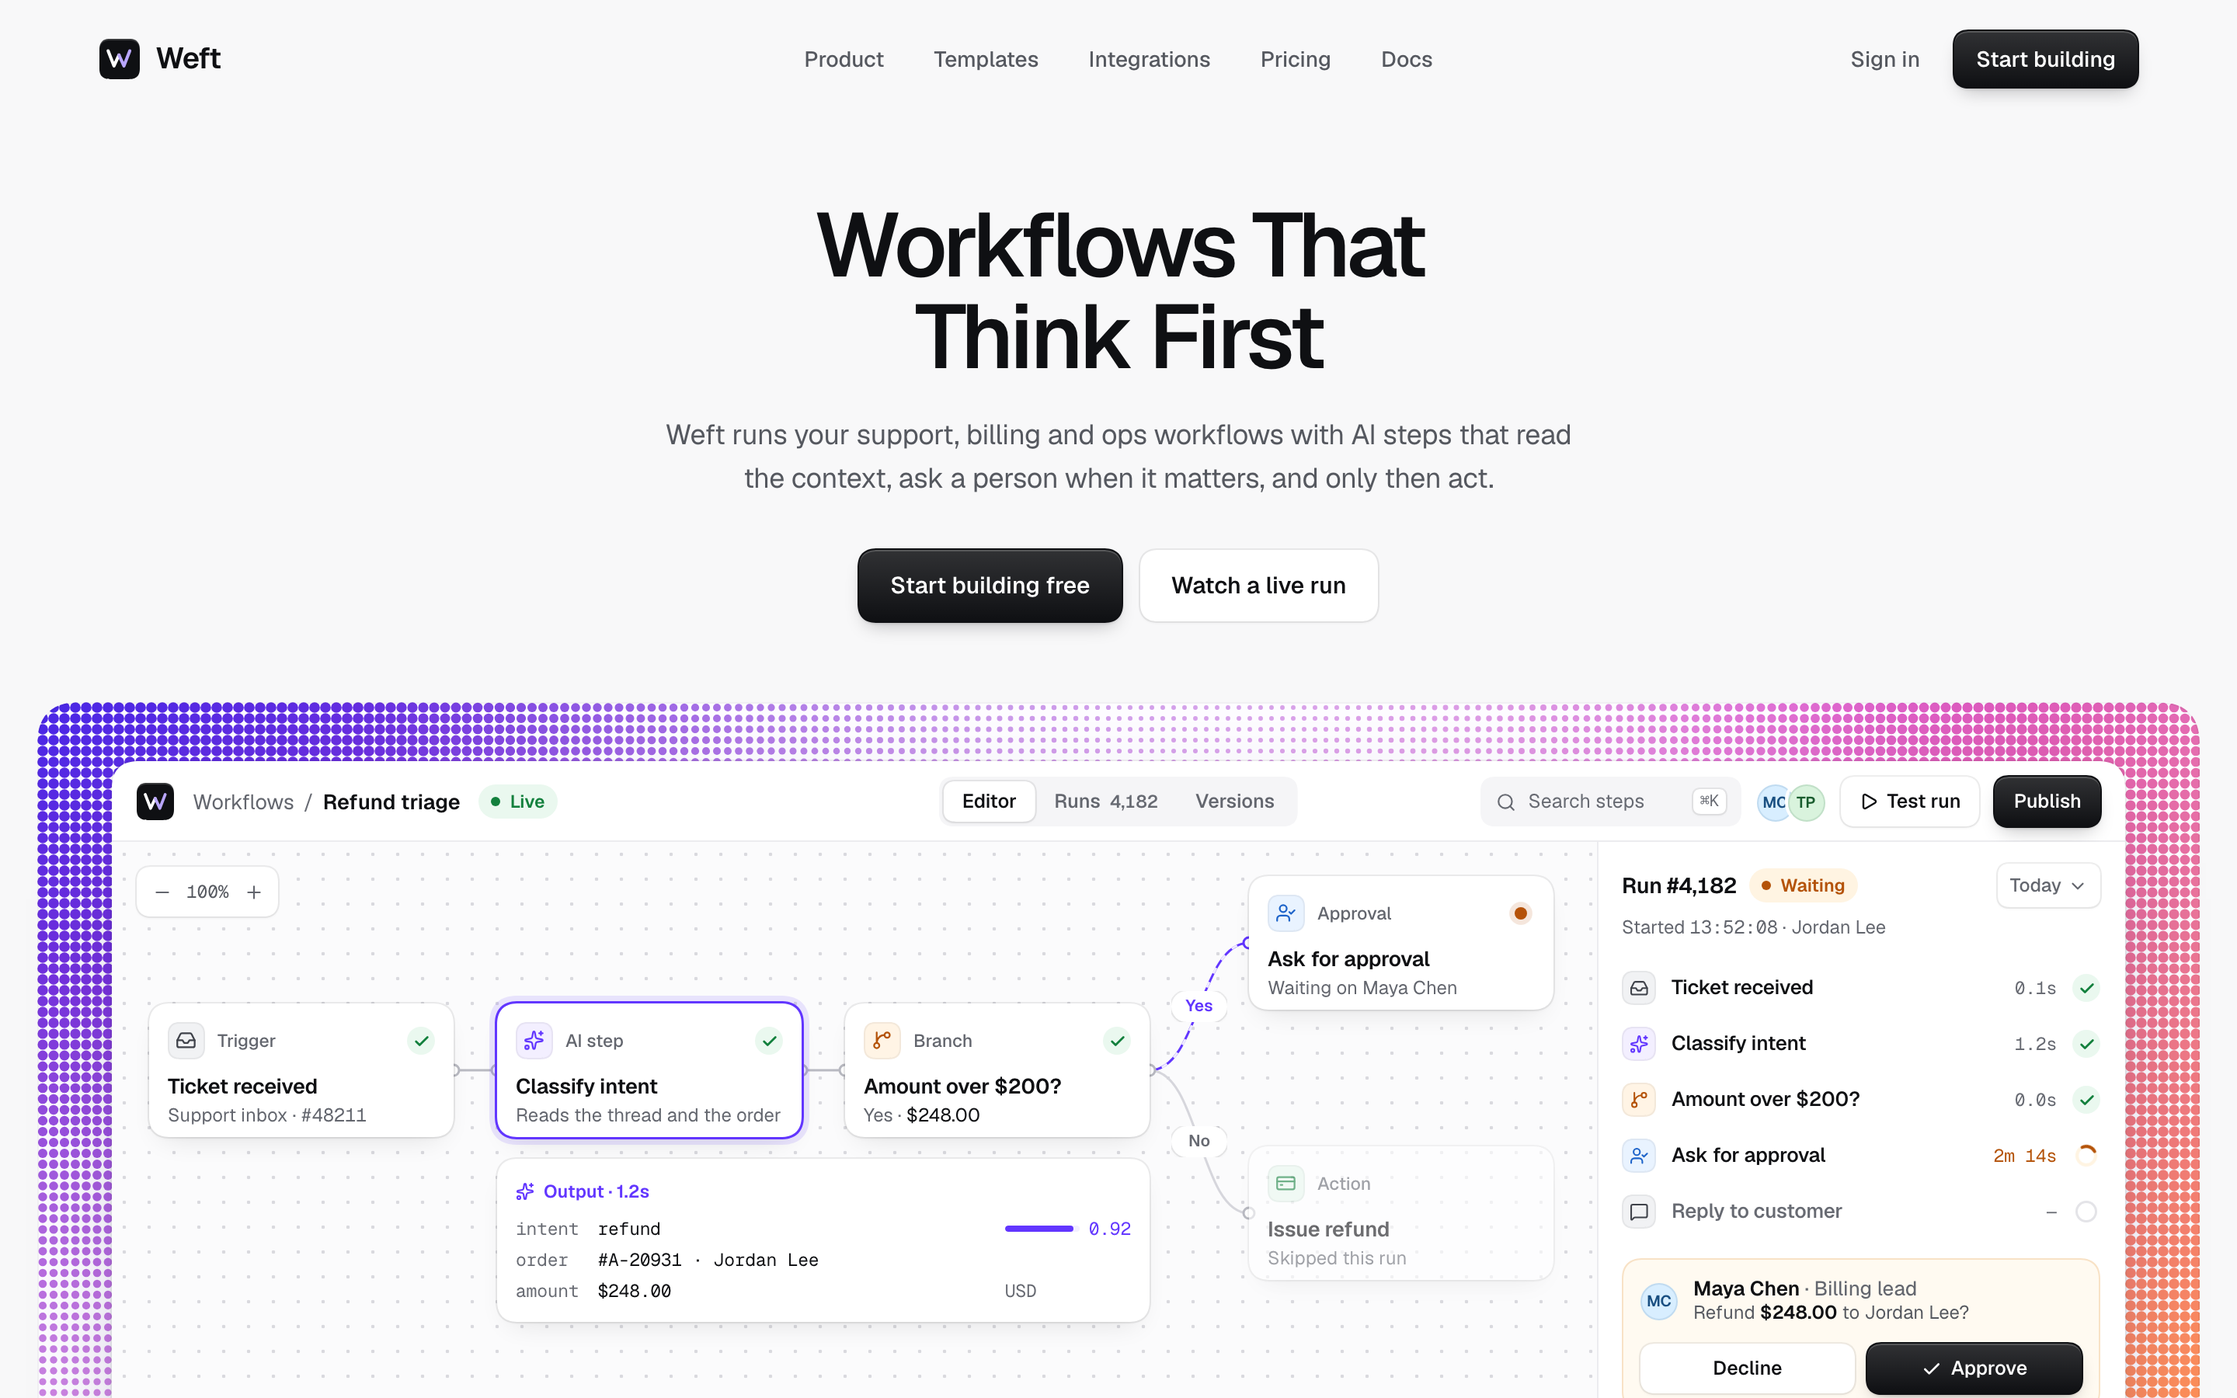
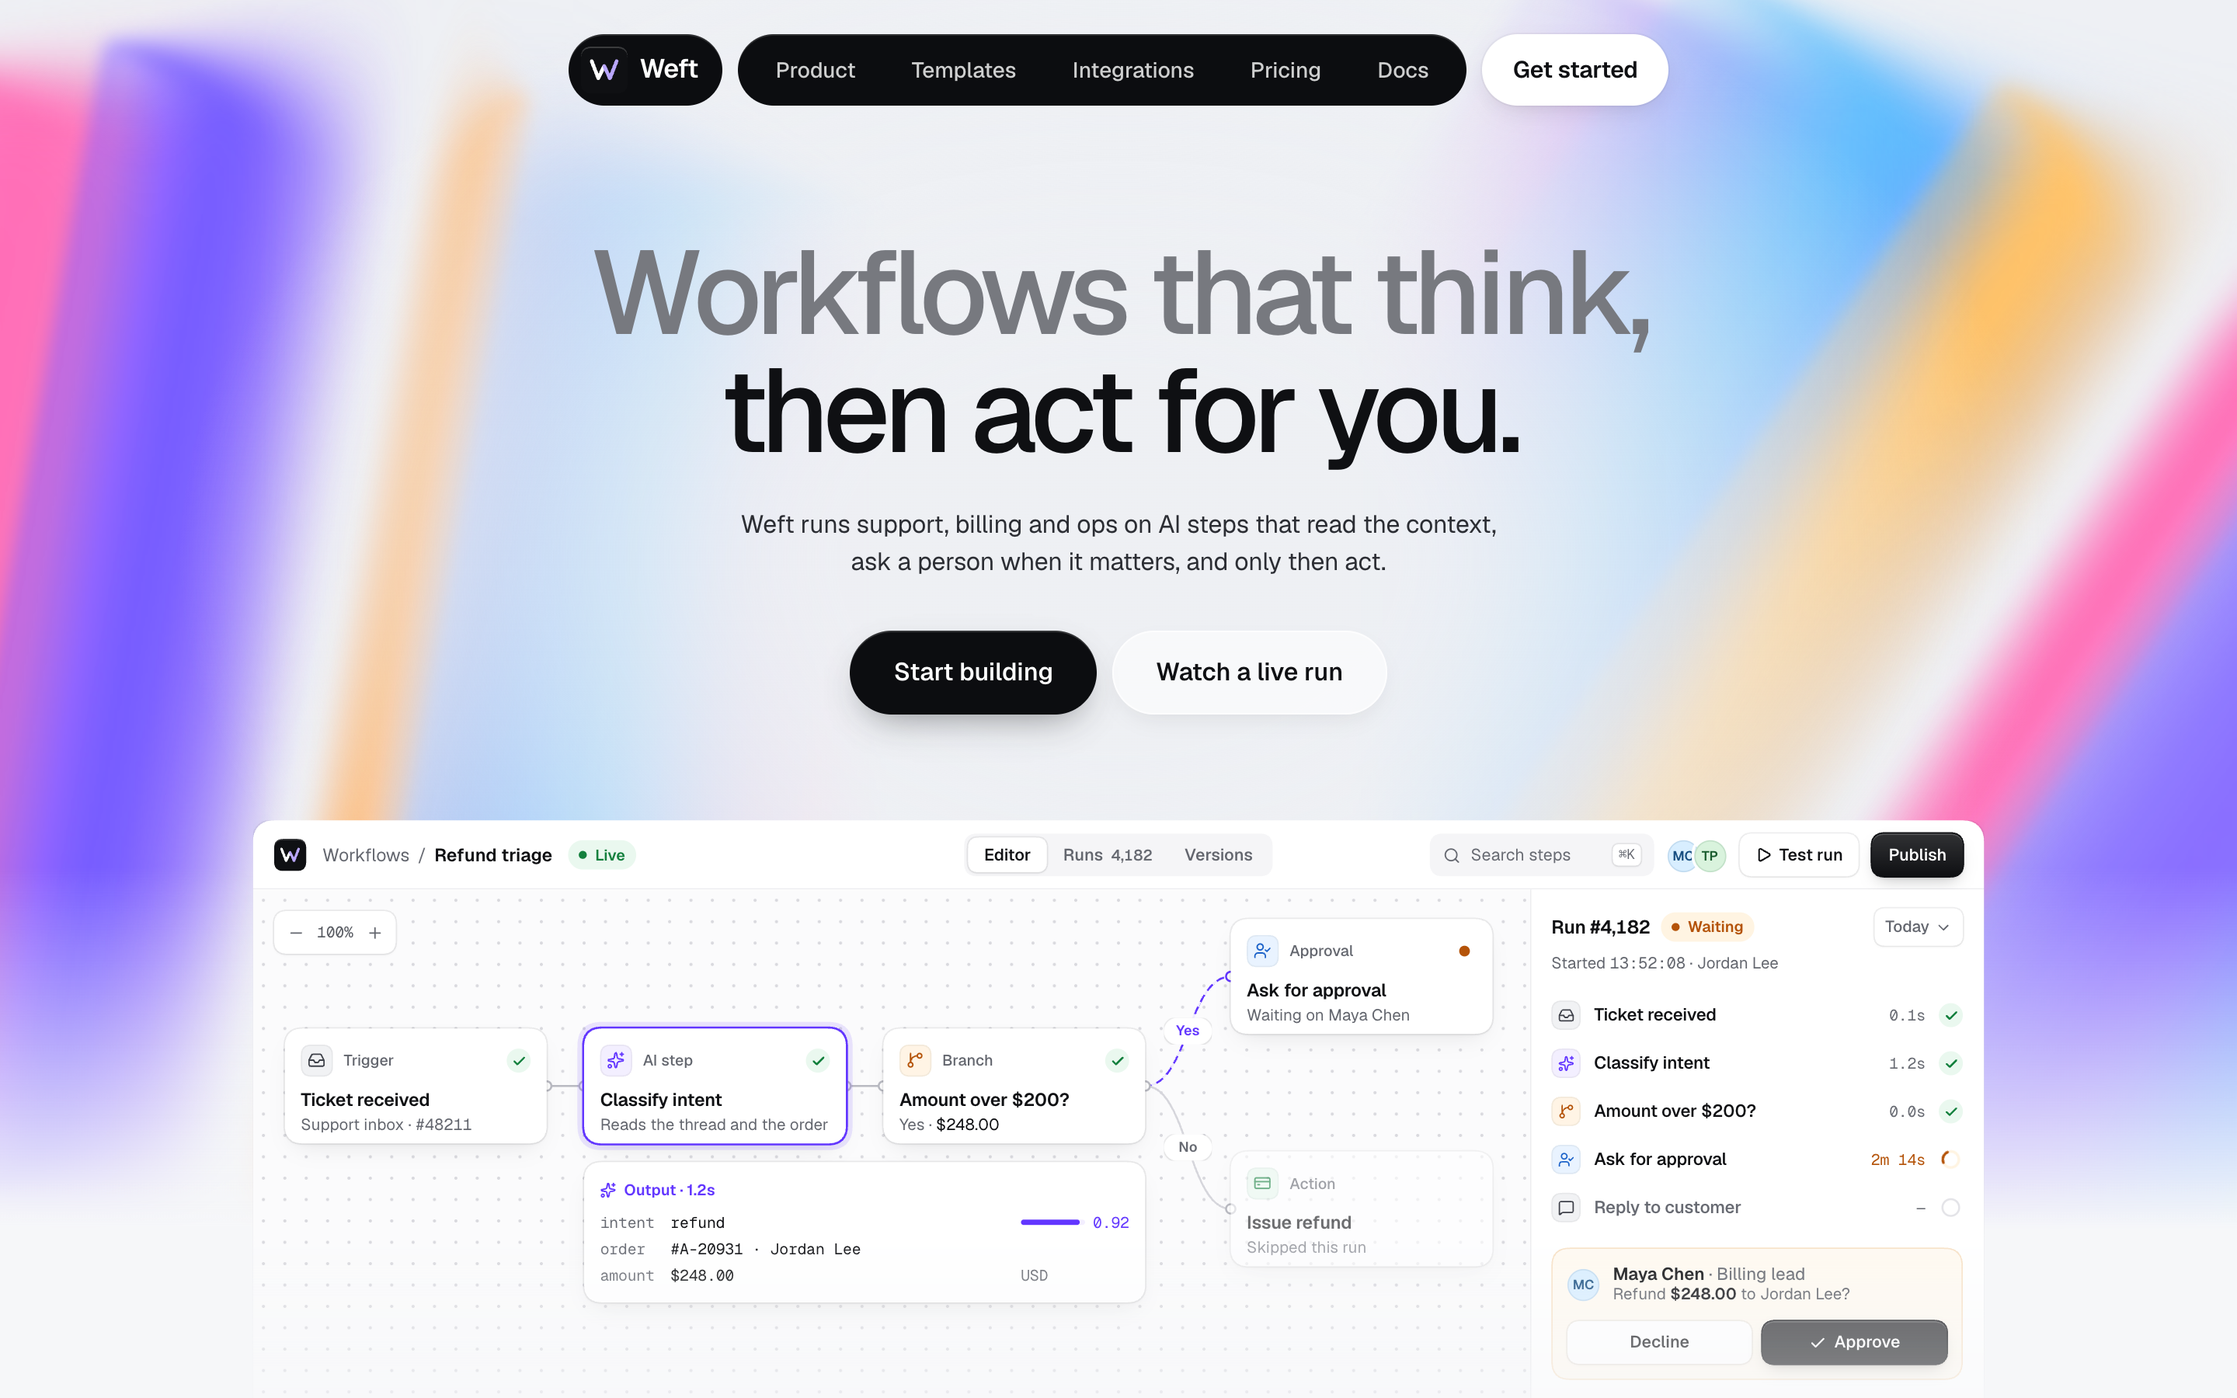
Weft v2 in Basit's light grammar: rendered glass field (Paper ColorPanels) out of focus at the edges, two-tone -0.05em headline, three-pill nav, product cropped by the fold; halftone removed after founder reject

diff --git a/work/weft/app/src/Hero.tsx b/work/weft/app/src/Hero.tsx
@@ -1,56 +1,57 @@
-// Weft hero (1440x900): Kestrel-clean centred copy over a halftone stage that holds the real product, a live
-// workflow run paused on a human approval (sample data).
+// Weft hero (1440x900), Basit grammar (knowledge/web/basit-craft.md, Lowpro pattern): a rendered glass field out of
+// focus at both edges, a misty centre for a big two-tone sentence-case headline at -0.05em, black + frosted pills,
+// and the real product cropped by the fold and dissolving into white (sample data).
 import { motion, MotionConfig } from 'motion/react'
 import type { ReactNode } from 'react'
-import Halftone from './Halftone'
+import Field from './Field'
 import { ease, Logo, Window } from './flow'
 
-const T = { nav: 0.1, h1: 0.2, sub: 0.45, cta: 0.55, stage: 0.5, win: 0.7, canvas: 1.0 }
-const Up = ({ at, y = 14, children, className = '' }: { at: number; y?: number; children: ReactNode; className?: string }) => (
-  <motion.div className={className} initial={{ opacity: 0, y }} animate={{ opacity: 1, y: 0 }} transition={{ delay: at, duration: 1.1, ease: ease.out, opacity: { delay: at, duration: 0.6 } }}>{children}</motion.div>
+const T = { field: 0, nav: 0.1, l1: 0.2, l2: 0.35, sub: 0.6, cta: 0.75, win: 0.85, canvas: 1.2 }
+const spring = { type: 'spring', duration: 1.2, bounce: 0 } as const
+const Up = ({ at, y = 40, children, className = '' }: { at: number; y?: number; children: ReactNode; className?: string }) => (
+  <motion.div className={className} initial={{ opacity: 0, y, filter: 'blur(8px)' }} animate={{ opacity: 1, y: 0, filter: 'blur(0px)' }} transition={{ delay: at, ...spring, opacity: { delay: at, duration: 0.6 }, filter: { delay: at, duration: 0.7 } }}>{children}</motion.div>
 )
-const SW = 1392, SH = 476
-const BLOBS = [{ x: 40, y: 10, r: 560, k: 1.15 }, { x: SW - 20, y: SH + 40, r: 640, k: 1.15 }, { x: SW - 120, y: -40, r: 300, k: 0.55 }]
+const GLASS = ['#6f5bff', '#ff6fae', '#4cb3ff', '#ffb36b']
 
 export default function Hero() {
   return (
     <MotionConfig reducedMotion="user">
-      <div className="relative mx-auto h-[900px] w-[1440px] overflow-hidden bg-[var(--canvas)]">
-        <header className="absolute inset-x-16 top-0 z-20 flex h-[76px] items-center">
-          <Up at={T.nav} y={0}><a href="#" className="flex items-center gap-2.5 text-[19px] font-[600] tracking-[-0.03em]"><Logo size={26} />Weft</a></Up>
-          <nav aria-label="Main" className="absolute left-1/2 -translate-x-1/2">
-            <Up at={T.nav + 0.05} y={0}>
-              <ul className="flex items-center gap-1 text-[14px] font-[500] text-[var(--sub)]">
-                {['Product', 'Templates', 'Integrations', 'Pricing', 'Docs'].map((l) => <li key={l}><a href="#" className="flex h-9 items-center rounded-[10px] px-3.5 transition-colors hover:bg-[rgb(15_16_19/0.05)] hover:text-[var(--ink)]">{l}</a></li>)}
-              </ul>
-            </Up>
-          </nav>
-          <Up at={T.nav + 0.1} y={0} className="ml-auto flex items-center gap-2">
-            <a href="#" className="flex h-9 items-center rounded-[10px] px-3.5 text-[14px] font-[500] text-[var(--sub)] hover:text-[var(--ink)]">Sign in</a>
-            <a href="#" className="btn-ink press flex h-9 items-center rounded-[10px] px-3.5 text-[14px] font-[550]">Start building</a>
+      <div className="relative mx-auto h-[900px] w-[1440px] overflow-hidden bg-[#eef0f4]">
+        {/* the light: two glass clusters out of focus, left and right, settling from scale 1.15 (Basit: the field arrives last) */}
+        <motion.div className="absolute inset-0" initial={{ opacity: 0, scale: 1.15 }} animate={{ opacity: 1, scale: 1 }} transition={{ delay: T.field, duration: 1.8, ease: ease.out, opacity: { duration: 1.0 } }}>
+          <div className="absolute -left-[220px] -top-[120px] h-[1100px] w-[860px]" style={{ maskImage: 'linear-gradient(90deg, #000 45%, transparent 92%)' }}><Field w={860} h={1100} colors={GLASS} blur={6} scale={1.15} rotation={100} density={1.5} frame={2400} /></div>
+          <div className="absolute -right-[220px] -top-[80px] h-[1100px] w-[860px]" style={{ maskImage: 'linear-gradient(270deg, #000 45%, transparent 92%)' }}><Field w={860} h={1100} colors={['#4cb3ff', '#8a6cff', '#ff6fae', '#ffc46b']} blur={7} scale={1.15} rotation={124} density={1.5} frame={5200} /></div>
+        </motion.div>
+        {/* mist: keeps the reading zone calm and lets the fold fall to white */}
+        <div aria-hidden className="absolute inset-0" style={{ background: 'radial-gradient(42% 46% at 50% 40%, rgb(238 240 244 / 0.92) 30%, rgb(238 240 244 / 0) 100%), linear-gradient(180deg, transparent 62%, #f6f7f9 88%)' }} />
+
+        {/* three-pill nav: black logo, black link capsule, white CTA */}
+        <header className="absolute inset-x-0 top-[22px] z-20 flex justify-center gap-2.5">
+          <Up at={T.nav} y={-30}><a href="#" className="flex h-[46px] items-center gap-2 rounded-full bg-[#0c0d10] pl-2 pr-4 text-[17px] font-[600] tracking-[-0.03em] text-white shadow-[inset_0_1px_0_rgb(255_255_255/0.14)]"><Logo size={30} />Weft</a></Up>
+          <Up at={T.nav + 0.05} y={-30}>
+            <nav aria-label="Main"><ul className="flex h-[46px] items-center gap-1 rounded-full bg-[#0c0d10] px-2 text-[14px] font-[500] text-white/80 shadow-[inset_0_1px_0_rgb(255_255_255/0.14)]">
+              {['Product', 'Templates', 'Integrations', 'Pricing', 'Docs'].map((l) => <li key={l}><a href="#" className="flex h-[34px] items-center rounded-full px-4 transition-colors hover:bg-white/10 hover:text-white">{l}</a></li>)}
+            </ul></nav>
           </Up>
+          <Up at={T.nav + 0.1} y={-30}><a href="#" className="flex h-[46px] items-center rounded-full bg-white px-5 text-[15px] font-[600] tracking-[-0.01em] shadow-[0_0_0_1px_rgb(15_16_19/0.04),0_6px_16px_-6px_rgb(15_16_19/0.18)]">Get started</a></Up>
         </header>
 
-        <main className="absolute inset-x-0 top-[128px] flex flex-col items-center text-center">
-          <h1 className="text-[58px] font-[560] leading-[1.02] tracking-[-0.045em]">
-            <Up at={T.h1} y={22}>Workflows That</Up>
-            <Up at={T.h1 + 0.08} y={22}>Think First</Up>
+        <main className="absolute inset-x-0 top-[150px] z-10 flex flex-col items-center text-center">
+          <h1 className="text-[76px] font-[500] leading-[1.0] tracking-[-0.05em]">
+            <Up at={T.l1} className="text-[#77797f]">Workflows that think,</Up>
+            <Up at={T.l2}>then act for you.</Up>
           </h1>
-          <Up at={T.sub} className="mt-5"><p className="text-[18px] leading-[28px] tracking-[-0.01em] text-[var(--sub)]">Weft runs your support, billing and ops workflows with AI steps that read<br />the context, ask a person when it matters, and only then act.</p></Up>
-          <Up at={T.cta} className="mt-8 flex items-center gap-3 text-[15px]">
-            <a href="#" className="btn-ink press flex h-[46px] items-center rounded-[12px] px-5 font-[550]">Start building free</a>
-            <a href="#" className="btn-white press flex h-[46px] items-center rounded-[12px] px-5 font-[550]">Watch a live run</a>
+          <Up at={T.sub} y={20} className="mt-6"><p className="text-[16px] leading-[24px] tracking-[-0.005em] text-[#2b2d33]">Weft runs support, billing and ops on AI steps that read the context,<br />ask a person when it matters, and only then act.</p></Up>
+          <Up at={T.cta} y={20} className="mt-8 flex items-center gap-2.5 text-[16px]">
+            <a href="#" className="press flex h-[54px] items-center rounded-full bg-[#0c0d10] px-7 font-[550] text-white shadow-[inset_0_1px_0_rgb(255_255_255/0.16),0_10px_24px_-10px_rgb(15_16_19/0.5)]">Start building</a>
+            <a href="#" className="press flex h-[54px] items-center rounded-full bg-white/60 px-7 font-[550] shadow-[inset_0_0_0_1px_rgb(255_255_255/0.7),0_6px_16px_-8px_rgb(15_16_19/0.15)] backdrop-blur-[20px]">Watch a live run</a>
           </Up>
         </main>
 
-        {/* halftone stage, bleeding off the bottom, with the product inside */}
-        <motion.div className="absolute left-6 top-[452px] overflow-hidden rounded-[28px]" style={{ width: SW, height: SH }}
-          initial={{ opacity: 0 }} animate={{ opacity: 1 }} transition={{ delay: T.stage, duration: 1.0 }}>
-          <Halftone w={SW} h={SH} cell={7} blobs={BLOBS} />
-          <div className="pointer-events-none absolute inset-0 rounded-[28px] shadow-[inset_0_0_0_1px_rgb(15_16_19/0.05)]" />
-        </motion.div>
-        <motion.div role="img" aria-label="Weft workflow editor: a refund run paused on an approval (sample data)" className="absolute left-[72px] top-[490px] h-[540px] w-[1296px]"
-          initial={{ opacity: 0, y: 40 }} animate={{ opacity: 1, y: 0 }} transition={{ delay: T.win, duration: 1.3, ease: ease.out, opacity: { delay: T.win, duration: 0.5 } }}>
+        {/* the product, cropped by the fold at ~58% and dissolving into the floor */}
+        <motion.div role="img" aria-label="Weft workflow editor: a refund run paused on an approval (sample data)" className="absolute left-[72px] top-[528px] z-10 h-[560px] w-[1296px]"
+          style={{ scale: 0.86, transformOrigin: '50% 0%', maskImage: 'linear-gradient(180deg, #000 55%, transparent 92%)' }}
+          initial={{ opacity: 0, y: 80 }} animate={{ opacity: 1, y: 0 }} transition={{ delay: T.win, type: 'spring', duration: 1.5, bounce: 0, opacity: { delay: T.win, duration: 0.6 } }}>
           <Window at={T.canvas} />
         </motion.div>
       </div>

diff --git a/work/weft/app/src/Post.tsx b/work/weft/app/src/Post.tsx
@@ -1,12 +1,11 @@
-// Weft post (square 1000x1000, export at 2x): the live run card, big, on the halftone field, caught mid-decision
+// Weft post (square 1000x1000, export at 2x): the live run card, big and pin-sharp, over an out-of-focus glass field (Basit), caught mid-decision
 // with the cursor on Approve. Same product pieces as the hero (sample data).
 import { motion, MotionConfig } from 'motion/react'
 import { Sparkles } from 'lucide-react'
-import Halftone from './Halftone'
+import Field from './Field'
 import { Approval, ease, Logo, STEPS, StepRow } from './flow'
 
 const S = 1000
-const BLOBS = [{ x: 0, y: 0, r: 620, k: 1.25 }, { x: S, y: S, r: 680, k: 1.25 }, { x: S, y: 60, r: 300, k: 0.45 }, { x: 40, y: S - 40, r: 260, k: 0.35 }]
 
 function Cursor() {
   return (
@@ -19,8 +18,11 @@ function Cursor() {
 export default function Post() {
   return (
     <MotionConfig reducedMotion="user">
-      <div className="relative overflow-hidden" style={{ width: S, height: S }}>
-        <Halftone w={S} h={S} cell={8} blobs={BLOBS} />
+      <div className="relative overflow-hidden bg-[#eef0f4]" style={{ width: S, height: S }}>
+        <motion.div className="absolute inset-0" initial={{ opacity: 0, scale: 1.12 }} animate={{ opacity: 1, scale: 1 }} transition={{ duration: 1.8, ease: ease.out, opacity: { duration: 1 } }}>
+          <div className="absolute -left-[260px] -top-[100px] h-[1200px] w-[760px]" style={{ maskImage: 'linear-gradient(90deg, #000 50%, transparent 95%)' }}><Field w={760} h={1200} colors={['#6f5bff', '#ff6fae', '#4cb3ff', '#ffb36b']} blur={8} scale={1.2} rotation={100} density={1.5} frame={2400} /></div>
+          <div className="absolute -right-[260px] -top-[60px] h-[1200px] w-[760px]" style={{ maskImage: 'linear-gradient(270deg, #000 50%, transparent 95%)' }}><Field w={760} h={1200} colors={['#4cb3ff', '#8a6cff', '#ff6fae', '#ffc46b']} blur={9} scale={1.2} rotation={124} density={1.5} frame={5200} /></div>
+        </motion.div>
         <motion.section aria-label="Weft run card, sample data" className="absolute left-1/2 top-1/2 w-[580px] -translate-x-1/2 -translate-y-1/2 rounded-[26px] bg-white p-2 shadow-[0_0_0_1px_rgb(15_16_19/0.06),0_2px_4px_rgb(15_16_19/0.04),0_50px_100px_-30px_rgb(40_14_120/0.45)]"
           initial={{ opacity: 0, y: 24, scale: 0.98 }} animate={{ opacity: 1, y: 0, scale: 1 }} transition={{ duration: 1.3, ease: ease.out, opacity: { duration: 0.5 } }}>
           <div className="px-4 pb-3 pt-4">

diff --git a/work/weft/app/src/Field.tsx b/work/weft/app/src/Field.tsx
@@ -1,0 +1,16 @@
+// Basit-grammar light field (BA-01..03): rendered translucent glass panels (Paper ColorPanels), not CSS blobs,
+// pushed out of focus so the sharp product reads in front of it (depth of field, Lowpro). One frozen frame by default.
+import { ColorPanels } from '@paper-design/shaders-react'
+
+export type FieldProps = { w: number; h: number; colors?: string[]; back?: string; blur?: number; density?: number; angle?: number; rotation?: number; scale?: number; offsetX?: number; offsetY?: number; length?: number; frame?: number; speed?: number }
+
+export default function Field({ w, h, colors = ['#7b5cff', '#ff6fb1', '#4fb7ff', '#ffb36b'], back = '#00000000', blur = 18, density = 1.6, angle = 0.3, rotation = 112, scale = 1, offsetX = 0, offsetY = 0, length = 1, frame = 1800, speed = 0 }: FieldProps) {
+  return (
+    <div aria-hidden className="pointer-events-none absolute inset-0 overflow-hidden" style={{ width: w, height: h }}>
+      <div style={{ position: 'absolute', inset: -blur * 3, filter: blur ? `blur(${blur}px) saturate(1.15)` : undefined }}>
+        <ColorPanels style={{ width: '100%', height: '100%' }} colors={colors} colorBack={back} angle1={angle} angle2={angle} length={length} edges blur={0.25}
+          fadeIn={0.85} fadeOut={0.3} gradient={0} density={density} rotation={rotation} scale={scale} offsetX={offsetX} offsetY={offsetY} frame={frame} speed={speed} />
+      </div>
+    </div>
+  )
+}

diff --git a/work/weft/app/src/Lab.tsx b/work/weft/app/src/Lab.tsx
@@ -1,0 +1,22 @@
+// Field lab (#/lab): four field variants side by side at hero proportions, to pick by eye before building.
+import Field, { type FieldProps } from './Field'
+
+const V: (Partial<FieldProps> & { name: string; bg: string })[] = [
+  { name: 'glass default', bg: '#eef0f4' },
+  { name: 'glass, cool, big', bg: '#eceef3', colors: ['#5b6cff', '#9b7bff', '#59c3ff', '#ff8fc8'], scale: 1.6, rotation: 90, blur: 22 },
+  { name: 'glass warm sides', bg: '#f1eff2', colors: ['#ff7a59', '#ff4fa0', '#8a6cff', '#ffc46b'], scale: 1.3, rotation: 128, offsetY: 0.1, blur: 14 },
+  { name: 'glass sharp', bg: '#eef0f4', blur: 4, scale: 1.2 },
+]
+
+export default function Lab() {
+  return (
+    <div className="grid grid-cols-2 gap-4 bg-white p-4">
+      {V.map(({ name, bg, ...p }) => (
+        <div key={name} className="relative overflow-hidden rounded-[16px]" style={{ width: 720, height: 450, background: bg }}>
+          <Field w={720} h={450} {...p} />
+          <span className="absolute left-3 top-3 rounded-full bg-white/80 px-2 py-1 text-[12px]">{name}</span>
+        </div>
+      ))}
+    </div>
+  )
+}

diff --git a/work/weft/app/src/main.tsx b/work/weft/app/src/main.tsx
@@ -3,7 +3,8 @@ import { createRoot } from 'react-dom/client'
 import './index.css'
 import Hero from './Hero'
 import Post from './Post'
+import Lab from './Lab'
 
-// #/post -> the square post, anything else -> the hero
-const View = location.hash === '#/post' ? Post : Hero
+// #/post -> the square post, #/lab -> field variants, anything else -> the hero
+const View = location.hash === '#/post' ? Post : location.hash === '#/lab' ? Lab : Hero
 createRoot(document.getElementById('root')!).render(<StrictMode><View /></StrictMode>)
